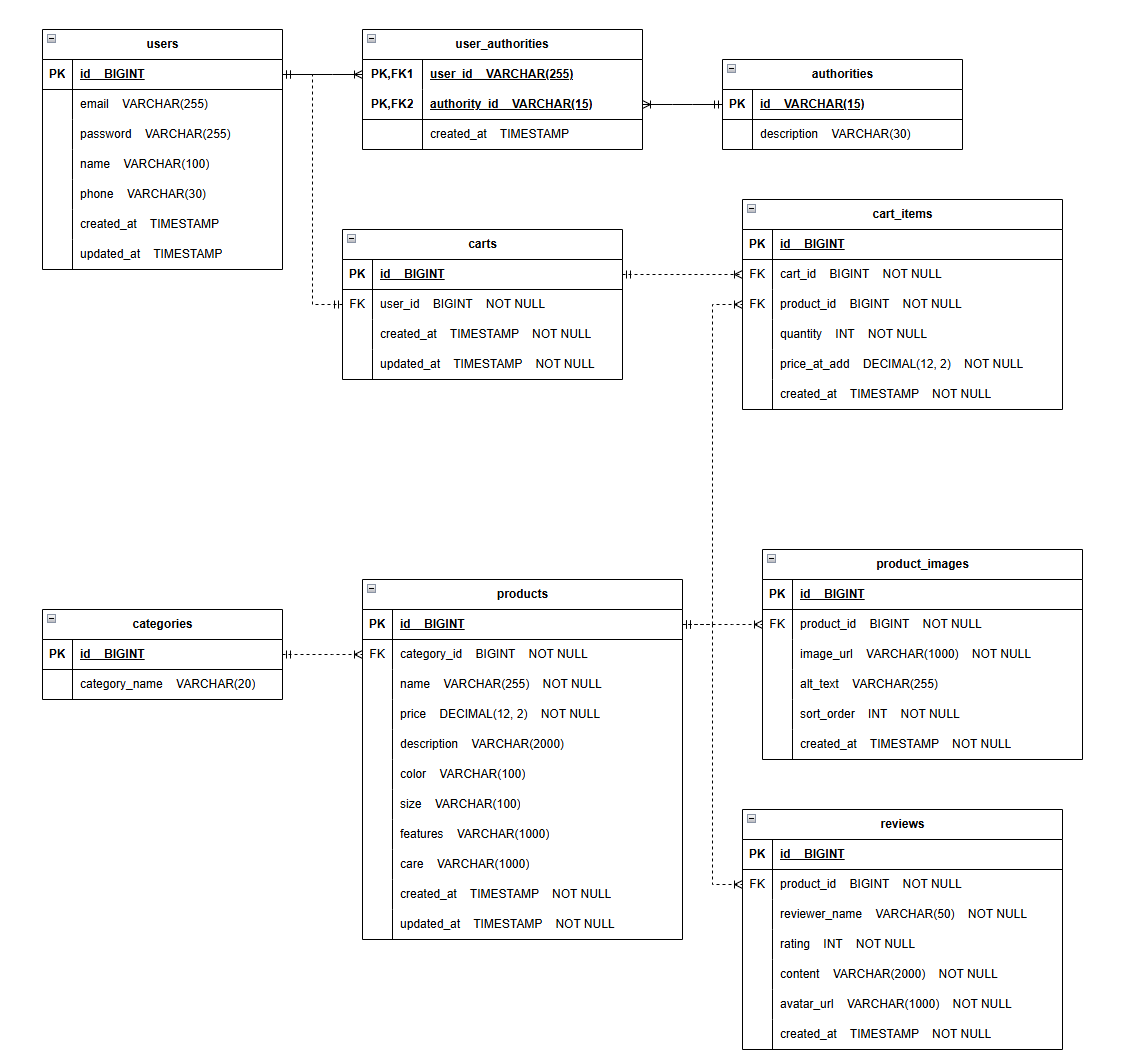
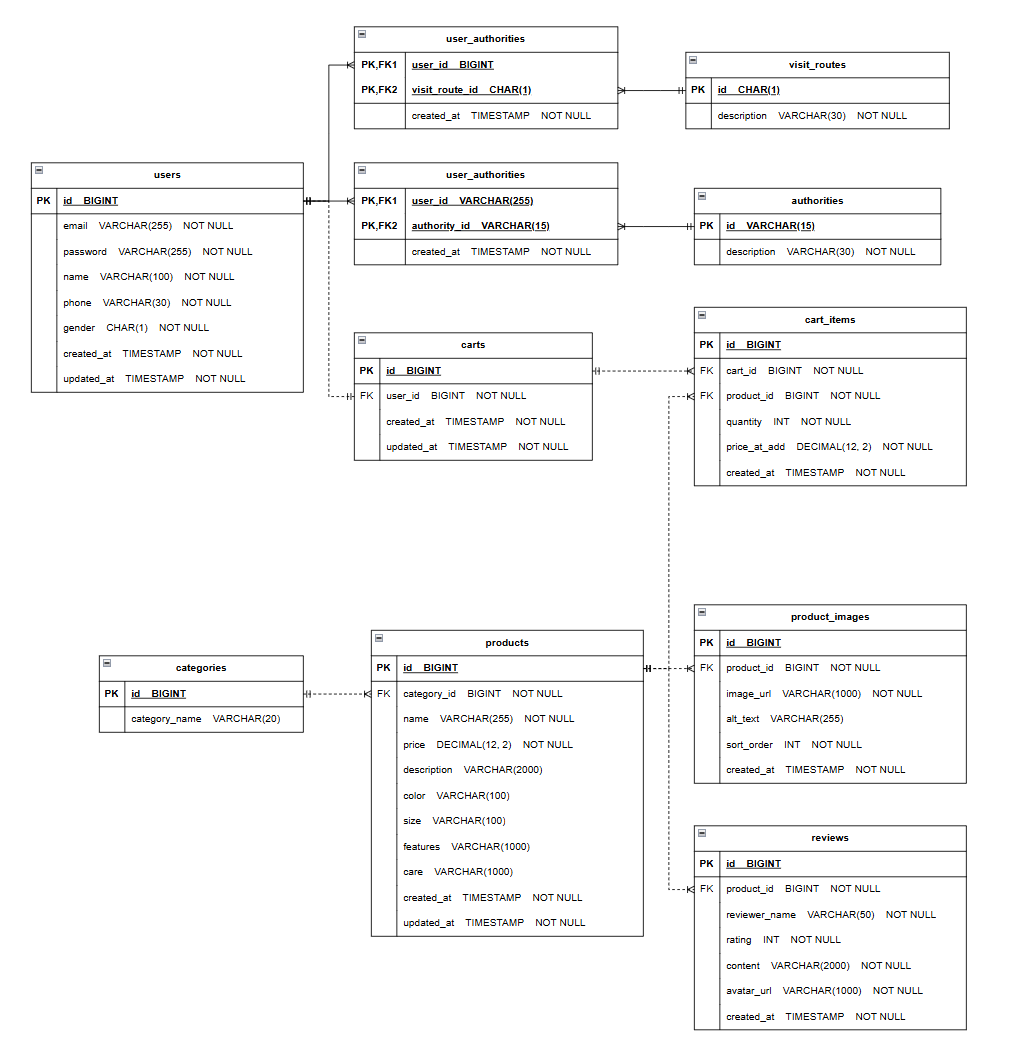
커밋 내용 없음

diff --git a/src/main/java/com/example/nextshop_api/user/service/UserServiceImpl.java b/src/main/java/com/example/nextshop_api/user/service/UserServiceImpl.java
@@ -3,9 +3,6 @@ package com.example.nextshop_api.user.service;
 import java.util.List;
 import java.util.Optional;
 
-import com.example.nextshop_api.config.jwt.TokenProvider;
-import com.example.nextshop_api.helper.SecurityHelper;
-import com.example.nextshop_api.user.dto.SignInDto;
 import org.springframework.security.authentication.BadCredentialsException;
 import org.springframework.security.authentication.UsernamePasswordAuthenticationToken;
 import org.springframework.security.config.annotation.authentication.builders.AuthenticationManagerBuilder;
@@ -16,8 +13,11 @@ import org.springframework.transaction.annotation.Transactional;
 
 import com.example.nextshop_api.config.exception.AlreadyExistedUserException;
 import com.example.nextshop_api.config.exception.UserNotFoundException;
+import com.example.nextshop_api.config.jwt.TokenProvider;
 import com.example.nextshop_api.config.property.ErrorMessagePropertySource;
+import com.example.nextshop_api.helper.SecurityHelper;
 import com.example.nextshop_api.user.dto.CreateUserDto;
+import com.example.nextshop_api.user.dto.SignInDto;
 import com.example.nextshop_api.user.dto.UserDto;
 import com.example.nextshop_api.user.repository.UserMapper;
 
@@ -65,6 +65,9 @@ public class UserServiceImpl implements UserService {
         createUserDto.setPassword(passwordEncoder.encode(createUserDto.getPassword()));
         userMapper.saveUser(createUserDto);
         userMapper.saveUserAuthority(createUserDto);
+        if (createUserDto.getVisitRoutes().size() > 0) {
+        	userMapper.saveVisitRoutes(createUserDto);	
+        }
 	}
 
     @Override

diff --git a/src/main/java/com/example/nextshop_api/user/controller/UserController.java b/src/main/java/com/example/nextshop_api/user/controller/UserController.java
@@ -3,9 +3,6 @@ package com.example.nextshop_api.user.controller;
 import java.net.URI;
 import java.util.Optional;
 
-import com.example.nextshop_api.config.jwt.TokenDto;
-import com.example.nextshop_api.helper.CookieHelper;
-import com.example.nextshop_api.user.dto.SignInDto;
 import org.springframework.http.HttpHeaders;
 import org.springframework.http.HttpStatus;
 import org.springframework.http.ResponseEntity;
@@ -17,7 +14,10 @@ import org.springframework.web.bind.annotation.RequestMapping;
 import org.springframework.web.bind.annotation.RestController;
 import org.springframework.web.servlet.support.ServletUriComponentsBuilder;
 
+import com.example.nextshop_api.config.jwt.TokenDto;
+import com.example.nextshop_api.helper.CookieHelper;
 import com.example.nextshop_api.user.dto.CreateUserDto;
+import com.example.nextshop_api.user.dto.SignInDto;
 import com.example.nextshop_api.user.dto.UserDto;
 import com.example.nextshop_api.user.service.UserService;
 

diff --git a/src/main/java/com/example/nextshop_api/user/dto/CreateUserDto.java b/src/main/java/com/example/nextshop_api/user/dto/CreateUserDto.java
@@ -1,5 +1,7 @@
 package com.example.nextshop_api.user.dto;
 
+import java.util.List;
+
 import com.fasterxml.jackson.annotation.JsonIgnore;
 
 import lombok.Data;
@@ -13,4 +15,6 @@ public class CreateUserDto {
 	private String password;
 	private String name;
 	private String phone;
+	private String gender;
+	private List<String> visitRoutes;
 }

diff --git a/src/main/java/com/example/nextshop_api/user/repository/UserMapper.java b/src/main/java/com/example/nextshop_api/user/repository/UserMapper.java
@@ -13,5 +13,6 @@ public interface UserMapper {
 	UserDto findUserByEmail(String email);
 	UserDto findUserById(long id);
 	void saveUser(CreateUserDto createUserDto);
+	void saveVisitRoutes(CreateUserDto createUserDto);
 	void saveUserAuthority(CreateUserDto createUserDto);
 }
